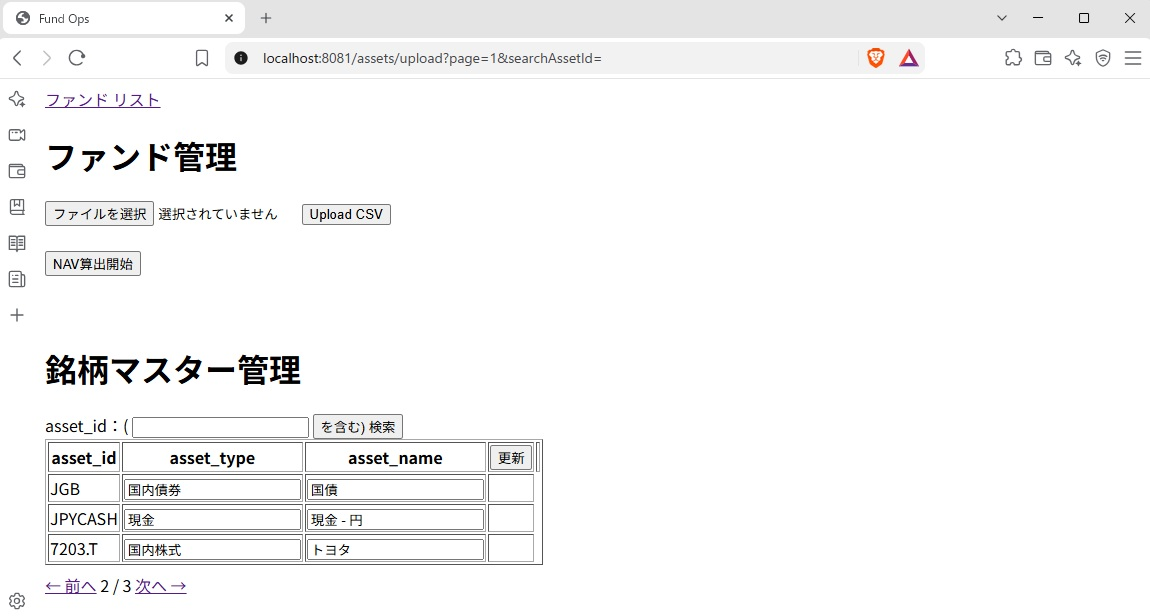
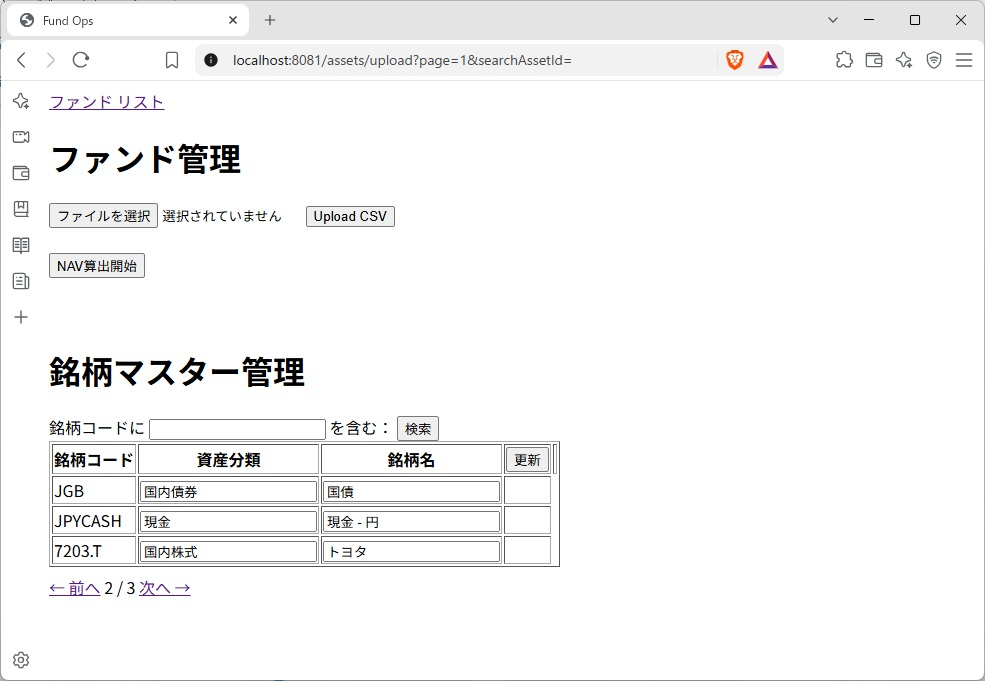
updated Readme.md

Changed region(s): [[0.0, 0.5244, 0.998, 1.0], [0.0, 0.0, 1.0, 0.5244]]

diff --git a/src/main/resources/templates/assets-upload.html b/src/main/resources/templates/assets-upload.html
@@ -34,11 +34,11 @@
 <h1>銘柄マスター管理</h1>
 
 <!-- 1. asset_id 入力欄 ＋ 2. 検索ボタン -->
-<!--form th:action="@{/assets/upload(searchAssetId=${searchAssetId})}" method="get"-->
 <form th:action="@{/assets/upload}" method="get">
-    <label for="searchAssetId">asset_id：(</label>
+    <label for="searchAssetId"> 銘柄コードに</label>
     <input type="text" id="searchAssetId" name="searchAssetId" th:value="${searchAssetId}">
-    <button type="submit">を含む) 検索</button>
+    <span>を含む： </span>
+    <button type="submit">検索</button>
 </form>
 
 <!-- 3. 検索結果（asset_type / asset_name は編集可）＋ 4. 更新ボタン -->
@@ -47,9 +47,9 @@
     <table border="1">
         <thead>
         <tr class="table-primary">
-            <th class="th-width">asset_id</th>
-            <th class="th-width">asset_type</th>
-            <th class="th-width">asset_name</th>
+            <th class="th-width">銘柄コード</th>
+            <th class="th-width">資産分類</th>
+            <th class="th-width">銘柄名</th>
             <th><button type="submit">更新</button></th>
             <th></th>
         </tr>
